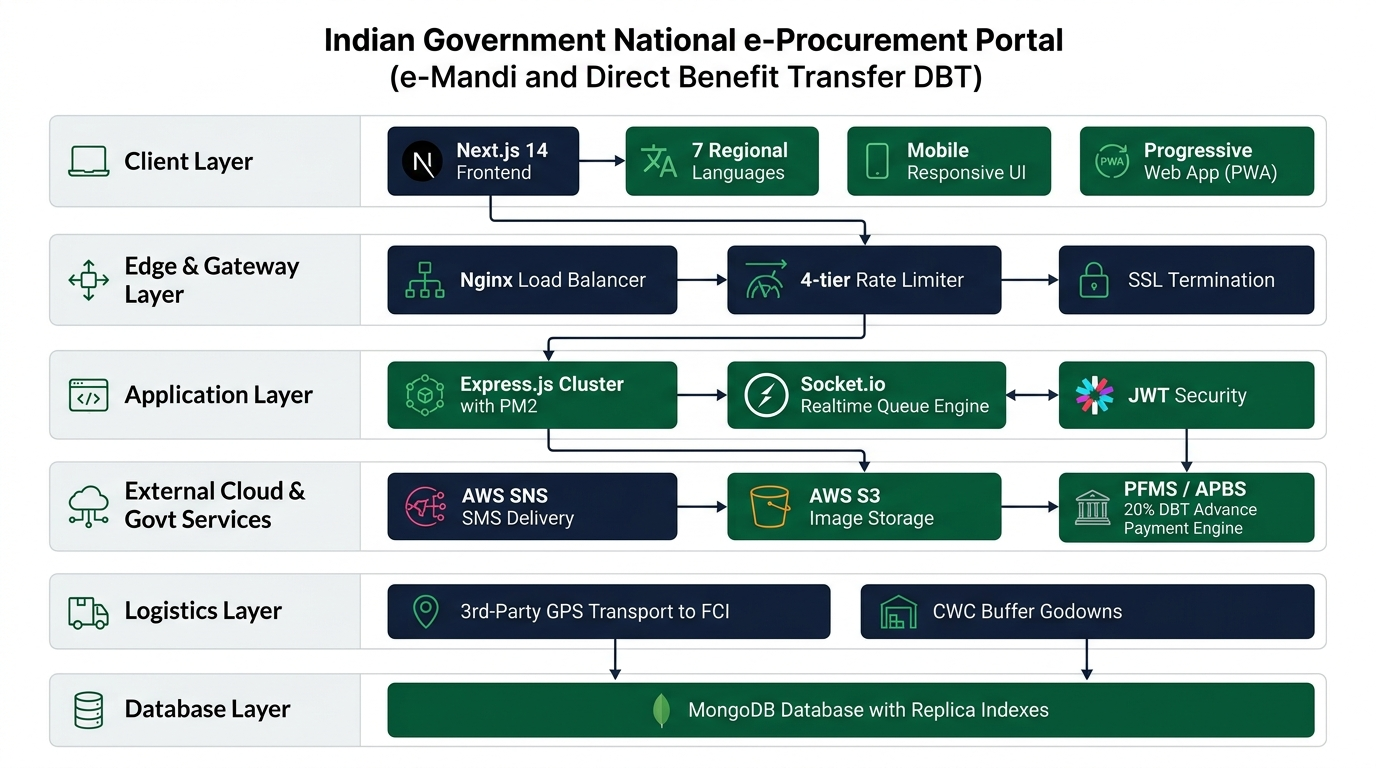
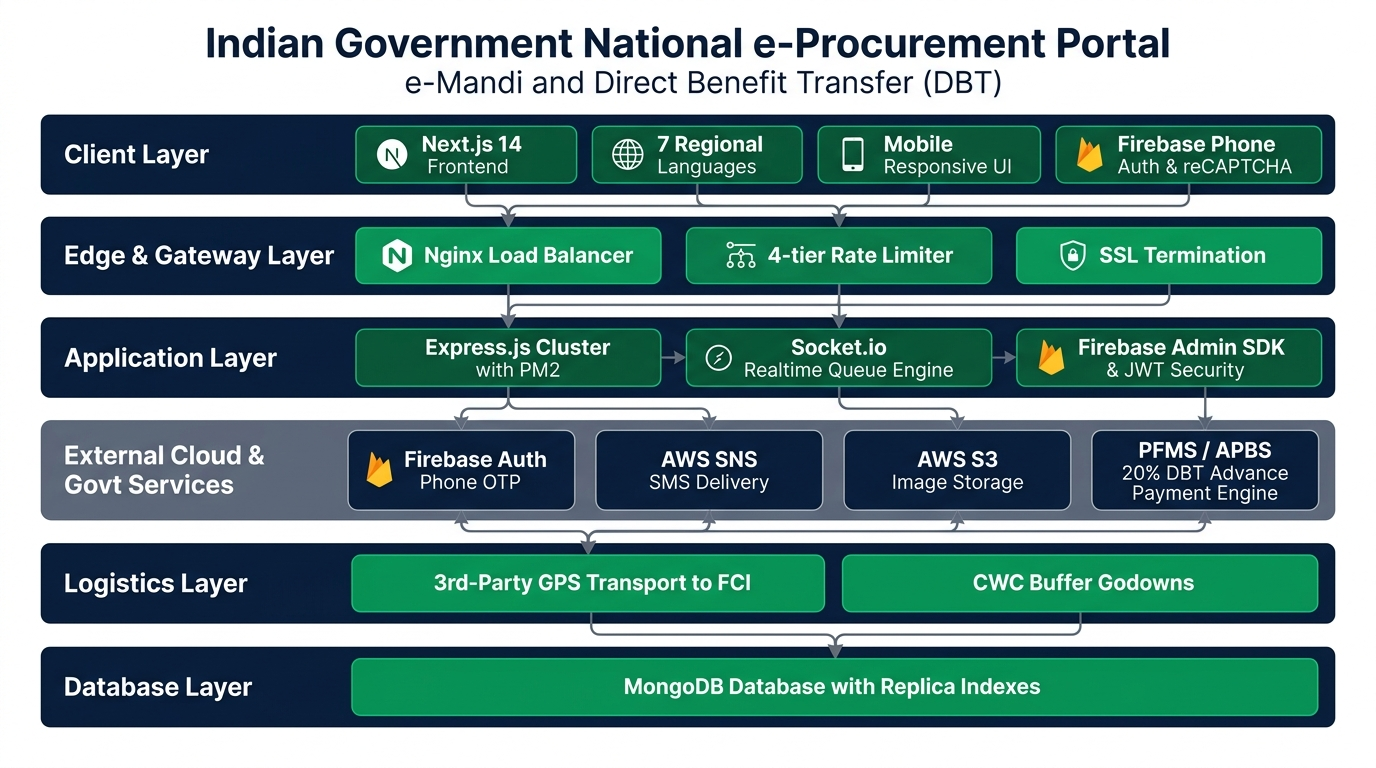
🔥 Include Firebase Phone OTP Authentication in architecture diagram and README
- Regenerated enterprise architecture diagram with Firebase Phone Auth & reCAPTCHA in Client Layer, Firebase Admin SDK in Application Layer, and Firebase Auth Phone OTP in Cloud Services Layer
- Updated architecture.png and architecture.jpg at repo root
- Updated README.md Mermaid flowchart to clearly illustrate Firebase Client <-> Service <-> Admin SDK verification flow

diff --git a/README.md b/README.md
@@ -50,45 +50,51 @@ This platform is an official, production-grade digital government portal designe
 
 ```mermaid
 flowchart TD
-    subgraph Client["Frontend Client (Next.js 14 / Vercel)"]
-        UI["Multilingual Farmer Portal\n(7 Languages)"]
+    subgraph Client["Frontend Client (Next.js 14)"]
+        UI["Multilingual Farmer Portal\n(7 Languages + PWA)"]
+        FirebaseAuthClient["Firebase Auth Client\n(Phone OTP & reCAPTCHA)"]
         Compressor["HTML5 Canvas Compressor\n(90KB WebP/JPEG)"]
         SocketClient["Socket.io Client"]
     end
 
     subgraph CDN["Edge & Security Layer"]
-        VercelEdge["Vercel Edge Proxy"]
-        HelmetCORS["Helmet & Reverse Proxy Guard"]
+        NginxProxy["Nginx Load Balancer\n(least_conn pool)"]
+        RateLimit["4-Tier Rate Limiter\n(Global, Auth, OTP, Bookings)"]
     end
 
-    subgraph Backend["Core API Server (Node.js 20 / EC2)"]
+    subgraph Backend["Core API Server (Node.js 20 / PM2)"]
         API["Express REST API"]
-        AuthService["JWT & Farmer Auth Gate"]
+        FirebaseAuthServer["Firebase Admin SDK\n(ID Token Verification)"]
+        AuthService["JWT Session Security Gate"]
         UploadService["Dual-Engine Storage Service"]
         QueueEngine["Smart Token Scheduler"]
         SocketServer["Socket.io Real-Time Hub"]
     end
 
-    subgraph Cloud["External Cloud Services"]
-        S3["AWS S3 Bucket\n(eu-north-1 / sih26032-farmer-media)"]
-        Mongo["MongoDB Atlas / Local"]
-        Firebase["Firebase Auth (OTP)"]
-        SMS["MSG91 / SMS Gateway"]
-        Logistics["3PL Fleet Telematics\n(Delhivery / Rivigo / BlackBuck)"]
+    subgraph Cloud["External Cloud & Govt Services"]
+        FirebaseAuthService["Firebase Auth Service\n(Phone Verification)"]
+        AWSSNS["AWS SNS (Transactional SMS)\n(Sender: EMANDI)"]
+        S3["AWS S3 Bucket\n(Farmer KYC & Crop Photos)"]
+        PFMS["PFMS / APBS Gateway\n(20% Advance & 80% Balance)"]
+        Mongo["MongoDB Database\n(Indexed Replicas)"]
+        Logistics["3PL Fleet Telematics\n(Delhivery / BlackBuck)"]
     end
 
+    UI --> FirebaseAuthClient
+    FirebaseAuthClient <--> FirebaseAuthService
     UI --> Compressor
-    Compressor --> VercelEdge
+    Compressor --> NginxProxy
     SocketClient <--> SocketServer
-    VercelEdge --> HelmetCORS --> API
-    API --> AuthService
+    NginxProxy --> RateLimit --> API
+    API --> FirebaseAuthServer
+    FirebaseAuthServer --> AuthService
     API --> QueueEngine
     API --> UploadService
     UploadService -->|Direct Media Stream| S3
     UploadService -.->|Fallback| LocalDisk["Local Disk (/uploads)"]
     API --> Mongo
-    AuthService --> Firebase
-    AuthService --> SMS
+    API --> AWSSNS
+    API --> PFMS
     API --> Logistics
 ```
 
